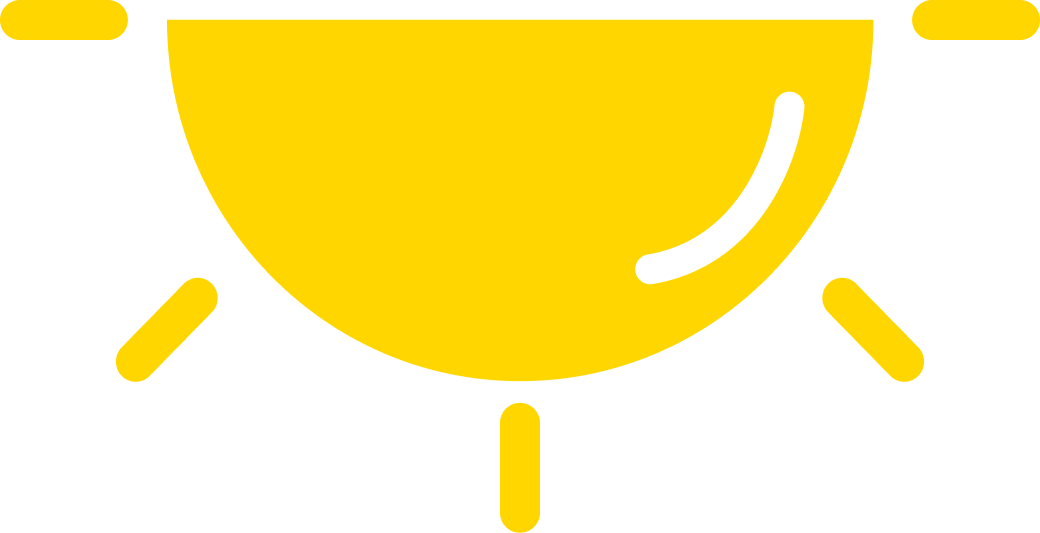
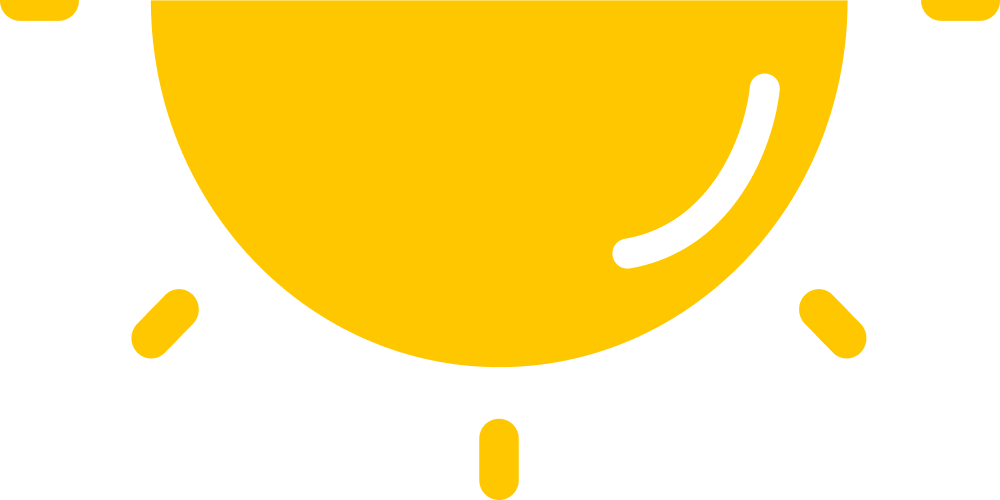
finaldesign with homeweathericon

diff --git a/listapp/src/screens/WeatherScreen.js b/listapp/src/screens/WeatherScreen.js
@@ -1,9 +1,11 @@
 import React from 'react';
 import { LinearGradient } from 'expo-linear-gradient';
 import {Dimensions, StyleSheet, Text, View, Image, ScrollView } from 'react-native';
-import { Fontisto,FontAwesome,Entypo } from '@expo/vector-icons';
-import sunnyicon from '../../assets/images/sunnyicon.png';
+import { Fontisto,FontAwesome,Entypo,Ionicons } from '@expo/vector-icons';
+// import sunnyicon from '../../assets/images/sunnyicon.png';
 import rainfall from '../../assets/images/rainfall.png';
+// import cloud80px from '../../assets/images/cloud80px.png';
+// import {  WithLocalSvg } from 'react-native-svg';
 
 //화면크기 맞추기
 const { width: SCREEN_WIDTH } = Dimensions.get("window");
@@ -12,6 +14,18 @@ const { height: SCREEN_HEIGHT } = Dimensions.get("window");
 
 console.log(SCREEN_WIDTH);
 console.log(SCREEN_HEIGHT);
+
+//날씨아이콘
+const icons = {
+  "Thunderstorm": "lightning",
+  "Drizzle": "rains",
+  "Rain": "rainy",
+  "Snow" : "snow",
+  "Atmosphere": "cloudy-gusts",
+  "Clear" : "day-sunny",
+  "Clouds": "cloudy",
+};
+
 
 
 export const Weather = () => {
@@ -35,9 +49,7 @@ export const Weather = () => {
 
         <View style={styles.weatherright}>
             <View>
-              <Image source={sunnyicon}
-                style={{width:140,height:140,marginTop:60}}
-              />
+              <Fontisto name="rain" size={140} marginTop={60}/>
             </View>
             <Text style={styles.city}>강남구 대치동</Text>
         
@@ -54,9 +66,7 @@ export const Weather = () => {
         
         <View style={styles.timetemp}>
           <Text style={styles.time}>오전 12시</Text>
-          <Image source={sunnyicon}
-                style={styles.timeicon}
-              />
+          <Fontisto name="cloudy" size={40} marginTop={15}/>
           <Text style={styles.parttemp}>15°</Text>
           <Image source={rainfall}//강수량이미지
               style={styles.rainfallst}
@@ -66,9 +76,7 @@ export const Weather = () => {
 
         <View style={styles.timetemp}>
           <Text style={styles.time}>오전 1시</Text>
-          <Image source={sunnyicon}
-              style={styles.timeicon}
-            />
+          <Fontisto name="snow" size={40} marginTop={15}/>
           <Text style={styles.parttemp}>15°</Text>
           <Image source={rainfall}//강수량이미지
               style={styles.rainfallst}
@@ -78,9 +86,7 @@ export const Weather = () => {
         </View>
         <View style={styles.timetemp}>
           <Text style={styles.time}>오전 2시</Text>
-          <Image source={sunnyicon}
-                style={styles.timeicon}
-              />
+          <Fontisto name="cloudy" size={40} marginTop={15}/>
           <Text style={styles.parttemp}>15°</Text>
           <Image source={rainfall}//강수량이미지
               style={styles.rainfallst}
@@ -90,9 +96,7 @@ export const Weather = () => {
 
         <View style={styles.timetemp}>
           <Text style={styles.time}>오전 3시</Text>
-            <Image source={sunnyicon}
-                style={styles.timeicon}
-              />
+          <Fontisto name="cloudy" size={40} marginTop={15}/>
           <Text style={styles.parttemp}>15°</Text>
           <Image source={rainfall}//강수량이미지
               style={styles.rainfallst}
@@ -102,9 +106,7 @@ export const Weather = () => {
 
         <View style={styles.timetemp}>
           <Text style={styles.time}>오전 4시</Text>
-          <Image source={sunnyicon}
-                style={styles.timeicon}
-              />
+          <Fontisto name="cloudy" size={40} marginTop={15}/>
           <Text style={styles.parttemp}>15°</Text>
           <Image source={rainfall}//강수량이미지
               style={styles.rainfallst}
@@ -114,9 +116,7 @@ export const Weather = () => {
           
         <View style={styles.timetemp}>
           <Text style={styles.time}>오전 5시</Text>
-          <Image source={sunnyicon}
-                style={styles.timeicon}
-              />
+          <Fontisto name="cloudy" size={40} marginTop={15}/>
           <Text style={styles.parttemp}>15°</Text>
           <Image source={rainfall}//강수량이미지
               style={styles.rainfallst}
@@ -126,9 +126,7 @@ export const Weather = () => {
 
         <View style={styles.timetemp}>
           <Text style={styles.time}>오전 6시</Text>
-          <Image source={sunnyicon}
-                style={styles.timeicon}
-              />
+          <Fontisto name="cloudy" size={40} marginTop={15}/>
           <Text style={styles.parttemp}>14°</Text>
           <Image source={rainfall}//강수량이미지
               style={styles.rainfallst}
@@ -138,9 +136,7 @@ export const Weather = () => {
 
         <View style={styles.timetemp}>
           <Text style={styles.time}>오전 7시</Text>
-          <Image source={sunnyicon}
-                style={styles.timeicon}
-              />
+          <Fontisto name="cloudy" size={40} marginTop={15}/>
           <Text style={styles.parttemp}>15°</Text>
           <Image source={rainfall}//강수량이미지
               style={styles.rainfallst}
@@ -150,9 +146,7 @@ export const Weather = () => {
 
         <View style={styles.timetemp}>
           <Text style={styles.time}>오전 8시</Text>
-          <Image source={sunnyicon}
-                style={styles.timeicon}
-              />
+          <Fontisto name="cloudy" size={40} marginTop={15}/>
           <Text style={styles.parttemp}>13°</Text>
           <Image source={rainfall}//강수량이미지
               style={styles.rainfallst}
@@ -162,9 +156,7 @@ export const Weather = () => {
 
         <View style={styles.timetemp}>
           <Text style={styles.time}>오전 9시</Text>
-          <Image source={sunnyicon}
-                style={styles.timeicon}
-              />
+          <Fontisto name="rain" size={40} marginTop={15} />
           <Text style={styles.parttemp}>11°</Text>
           <Image source={rainfall}//강수량이미지
               style={styles.rainfallst}
@@ -275,12 +267,17 @@ const styles = StyleSheet.create({
     fontWeight:'500',
   },
   timeicon:{//시간대별 날씨아이콘
-    width:40,
-    height:40,
+    width:50,
+    height:50,
+    marginTop:15,   
+  },
+  timeicon2:{//시간대별 날씨아이콘
+    width:50,
+    height:50,
     marginTop:15,   
   },
   rainfallst:{//빗물아이콘
-    width:19,
+    width:20,
     height:21,
     marginTop:7,
   },

diff --git a/listapp/src/screens/Home.js b/listapp/src/screens/Home.js
@@ -1,8 +1,10 @@
 import React from 'react';
 import { LinearGradient } from 'expo-linear-gradient';
 import {Dimensions, StyleSheet, Text, View, Image } from 'react-native';
-import homesunny1 from '../../assets/images/homesunny1.png';
-import rain from '../../assets/images/rain.png';
+
+// import halfsun2 from '../../assets/images/halfsun2.png';
+// import halfrain2 from '../../assets/images/halfrain2.png';
+// import halfcloudy from '../../assets/images/halfcloudy.png';
 
 const { width: SCREEN_WIDTH } = Dimensions.get("window");
 const { height: SCREEN_HEIGHT } = Dimensions.get("window");
@@ -10,11 +12,23 @@ const { height: SCREEN_HEIGHT } = Dimensions.get("window");
 console.log(SCREEN_WIDTH);
 console.log(SCREEN_HEIGHT);
 
+
+
+const weatherImages = {
+  sunny: require('../../assets/images/halfsun.png'),
+  rainy: require('../../assets/images/halfrain.png'),
+  cloudy: require('../../assets/images/halfcloudy.png'),
+  snow:require('../../assets/images/halfsnow.png'),
+  // ... 다른 날씨 상태에 대한 이미지 매칭
+};
+
+
+
 export const Home = () => {
     return (
         <LinearGradient colors={['#D1EFFF', '#FFFFFF']} style={styles.container}>
 
-              <Image source={homesunny1}
+              <Image source={weatherImages.snow}
                 style={styles.homeweathericon}
               />
 
@@ -37,7 +51,7 @@ export const Home = () => {
 
           <View style={styles.codicomment}>
             <View style={styles.codibox}>
-
+              <Text style={styles.codi}>양말을 챙기세요</Text>
             </View>
             <Text style={styles.comment}>기온에 맞는 코디를 참고하세요</Text>
           </View>
@@ -53,9 +67,10 @@ const styles = StyleSheet.create({
 
   homeweathericon: {
     width:SCREEN_WIDTH,
-    height:SCREEN_WIDTH,
-    marginTop:-(SCREEN_WIDTH/2)
+    height:SCREEN_WIDTH/2,
   },
+
+
   weather:{
     flex:1,
     flexDirection:'row',
@@ -104,6 +119,13 @@ const styles = StyleSheet.create({
     height:(SCREEN_WIDTH-80)/2,
     backgroundColor:"white",
     borderRadius:18,
+    alignItems: 'center',
+    justifyContent:'center',
+  },
+  codi:{
+    fontSize:20,
+    // alignItems: 'center',
+    // justifyContent:'center',
   },
   comment:{
     fontSize:20,

diff --git a/listapp/src/navigations/Tab.js b/listapp/src/navigations/Tab.js
@@ -1,6 +1,6 @@
 import React from 'react';
 import { createBottomTabNavigator } from '@react-navigation/bottom-tabs';
-import { Codi } from '../screens/TabScreen';
+import { Codi } from '../screens/CodiScreen';
 import { Weather } from '../screens/WeatherScreen';
 import { Home } from '../screens/Home';
 import { Fontisto,Ionicons } from '@expo/vector-icons'

diff --git a/listapp/App.js b/listapp/App.js
@@ -5,7 +5,6 @@
 // AppRegistry.registerComponent('App', () => App);
 
 // export default App;
-
 import React from 'react';
 // import { AppRegistry } from 'react-native';
 import { NavigationContainer } from '@react-navigation/native';
